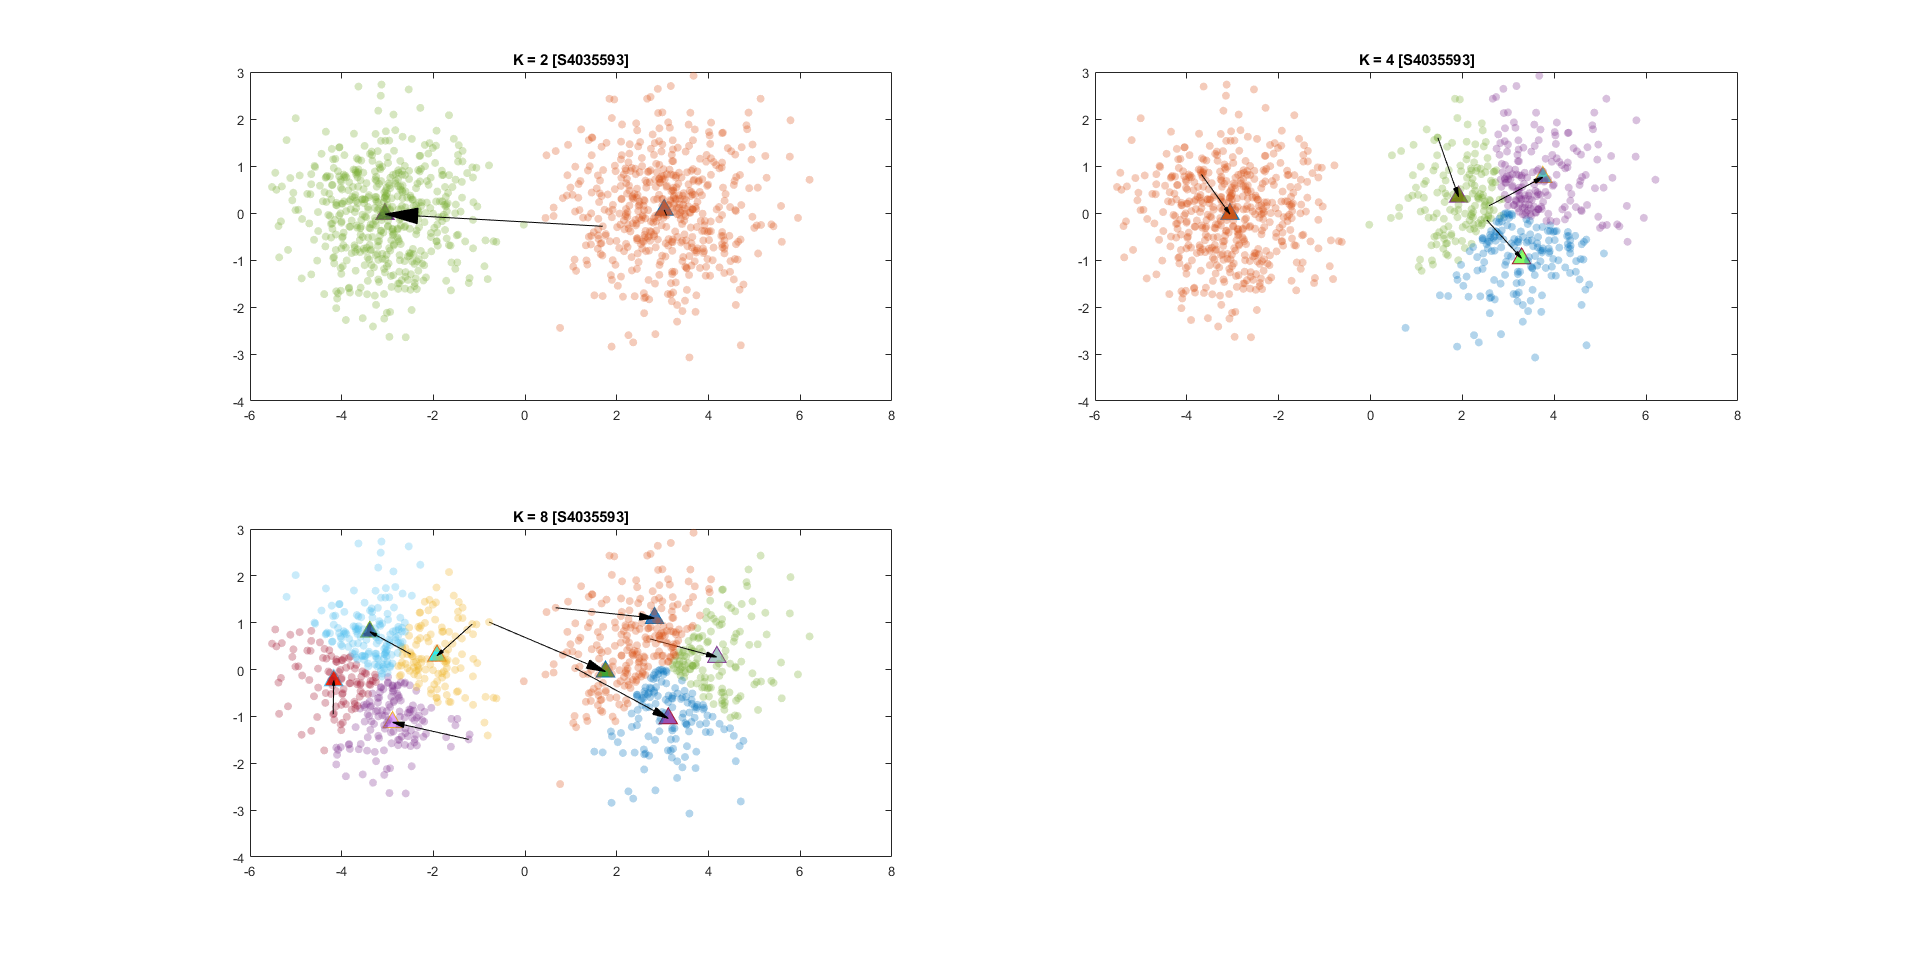
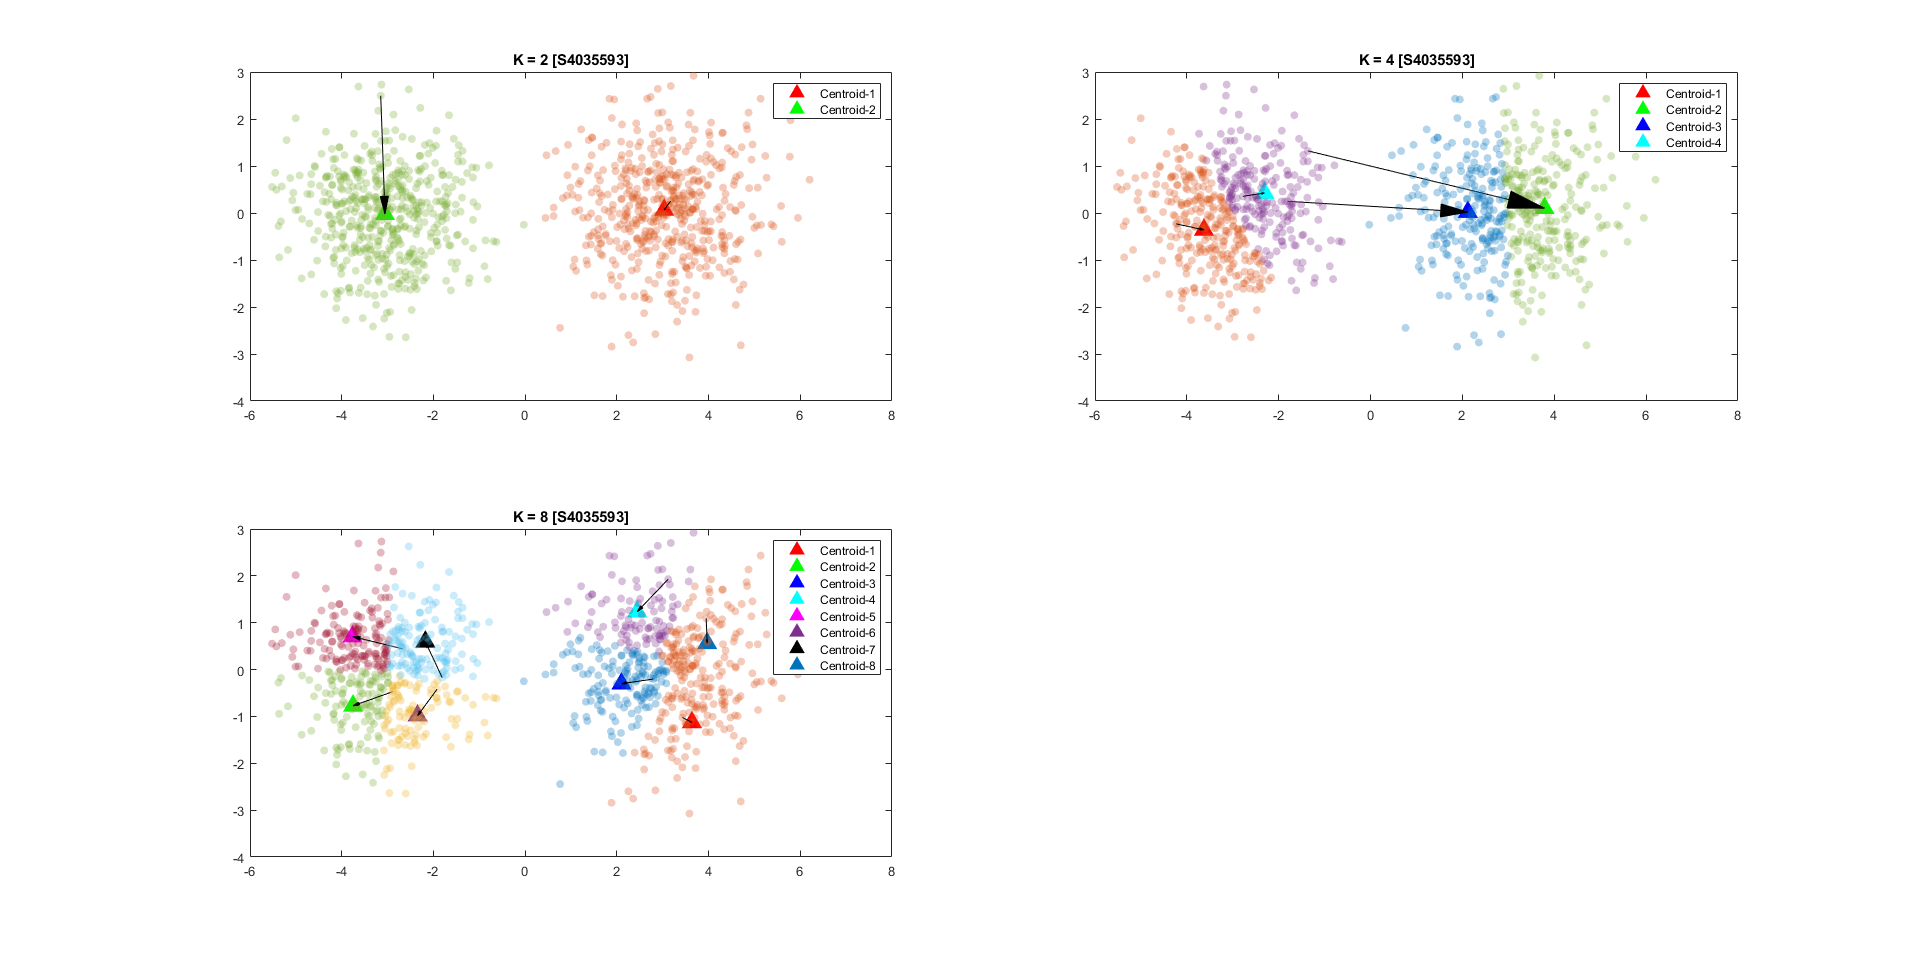
Fixes

diff --git a/Assignment6/Lab1_Q2_3.m b/Assignment6/Lab1_Q2_3.m
@@ -1,6 +1,6 @@
 clc;
 clear;
-id = "S4151968";
+id = "S4035593";
 data = load("data/kmeans1.mat");
 data = cell2mat(struct2cell(data));
 max_epochs = 1000;
@@ -8,13 +8,15 @@ rng(100)
 centroid_colors = rand(1,8);
 K = [2,4,8];
 % Q2
+legends = ["Centroid-1","Centroid-2","Centroid-3","Centroid-4","Centroid-5","Centroid-6","Centroid-7","Centroid-8"];
+colors = [[1 0 0]; [0 1 0]; [0 0 1]; [0 1 1]; [1 0 1]; [0.4940 0.1840 0.5560]; [0 0 0]; [0 0.4470 0.7410]];
 figure
 for i=1:length(K)
     k = K(i);
     subplot(2,2,i);
     [centroid, cluster_labels] = kmeans(data,k,max_epochs,0);
     for j=1:size(centroid,1)
-        p = plot(centroid(j,1), centroid(j,2), '^','MarkerSize',12, 'MarkerFaceColor', rand(1,3));
+        p = plot(centroid(j,1), centroid(j,2), '^','MarkerSize',12, 'MarkerFaceColor', colors(j,:),'Color',colors(j,:));
         %p.MarkerFaceColor = p.Color;
         hold on;
         s = scatter(data(cluster_labels == j,1), data(cluster_labels == j,2),'filled');
@@ -25,13 +27,18 @@ for i=1:length(K)
 end
 
 %Q3
+
+plots = [];
 figure
+
 for i=1:length(K)
     k = K(i);
-    subplot(2,2,i);
+    ax = subplot(2,2,i);
     [centroid, cluster_labels, init_centroid] = kmeans(data,k,max_epochs,0);
     for j=1:size(centroid,1)
-        p = plot(centroid(j,1), centroid(j,2), '^','MarkerSize',12, 'MarkerFaceColor', rand(1,3));
+        p = plot(centroid(j,1), centroid(j,2), '^','MarkerSize',12, 'MarkerFaceColor', colors(j,:),'Color',colors(j,:));
+        plots(j) = p;
+        %legend(legends(j));
         %p.MarkerFaceColor = p.Color;
         hold on;
         s = scatter(data(cluster_labels == j,1), data(cluster_labels == j,2),'filled');
@@ -40,5 +47,7 @@ for i=1:length(K)
         plot_arrow(init_centroid(j,1), init_centroid(j,2), centroid(j,1), centroid(j,2));
         hold on;
         title("K = "+j+" ["+id+"]")
+        %legend(legends(1,k))
     end
+    legend(plots, legends)
 end

diff --git a/Assignment6/Lab1_Q8_to_13.m b/Assignment6/Lab1_Q8_to_13.m
@@ -35,6 +35,6 @@ fprintf("The mean of Kmeans++ error = %f \n", mean(collated_kmeans_PP_q_errors))
 fprintf("The standard deviation of Kmeans++ error = %f \n", std(collated_kmeans_PP_q_errors))
 
 % Welch's t-test
-[h,p] = ttest2(collated_kmeans_q_errors, collated_kmeans_PP_q_errors, 'Tail', 'right')
+[h,p] = ttest2(collated_kmeans_q_errors, collated_kmeans_PP_q_errors, 'Vartype', 'unequal')
 
 fprintf("The P value = %f \n", p);
